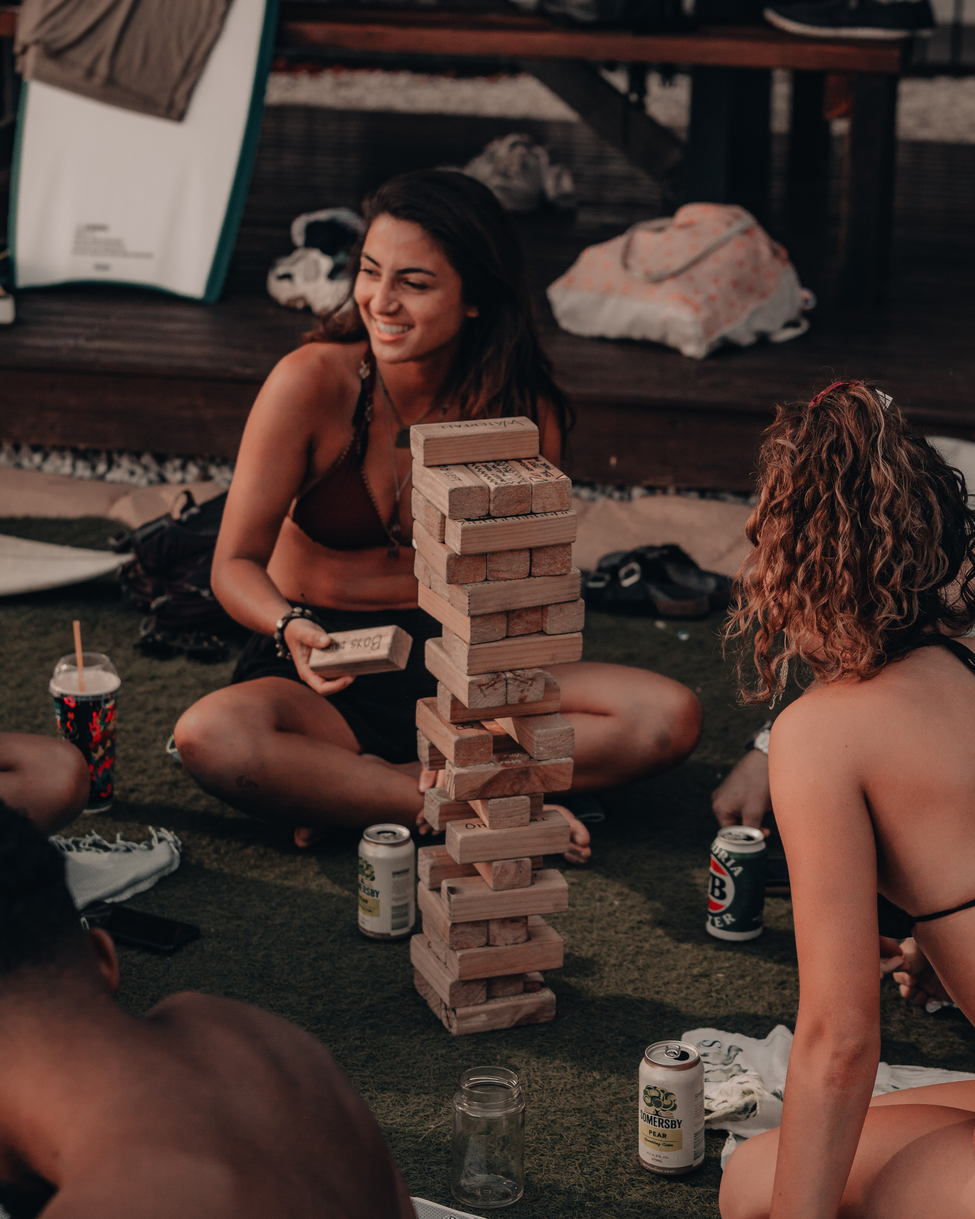
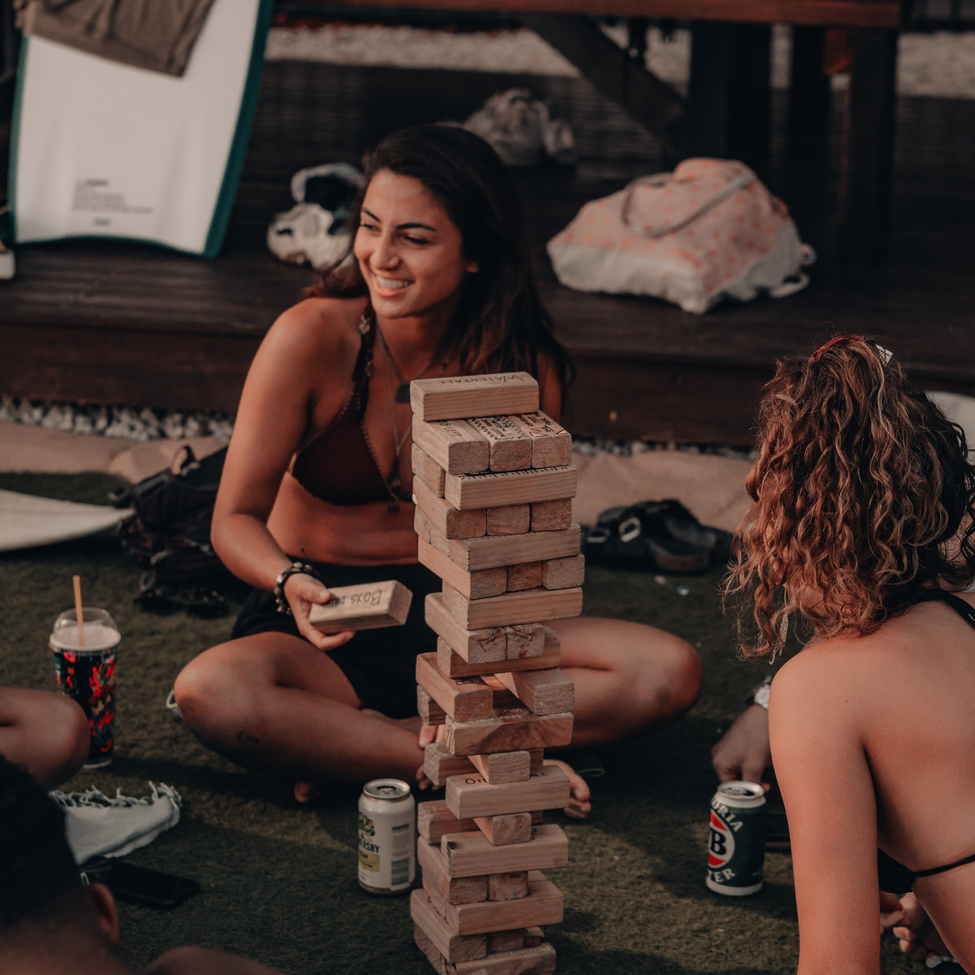
adding assets

diff --git a/src/Components/Forms/LoginForm.jsx b/src/Components/Forms/LoginForm.jsx
@@ -1,39 +1,14 @@
-import * as React from 'react';
-import { useState, useEffect } from 'react';
+import React from 'react';
 import { Link } from 'react-router-dom';
-import { getAllEvents } from '../../API/EventAPI';
-import { getAllOrganisations } from '../../API/OrganisationAPI';
-import AddVenue from '../AddVenue/AddVenue';
+
 
 const LoginForm = () => {
 
-  const [organisations, setOrganisations] = useState([]);
-  const [events, setEvents] = useState([]);
-
-  useEffect( () => {
-    getAllOrganisations(setOrganisations);
-    console.log(organisations);
-
-    getAllEvents(setEvents);
-    console.log(events);
-  }, []);
-
-  const [toggleAddVenue, setToggleAddVenue] = useState("hidden")
-
-  const handleCreateVenueToggle = (event) => {
-    event.preventDefault()
-
-    if (toggleAddVenue === "hidden") {
-      return setToggleAddVenue("flex");
-    }
-
-    return setToggleAddVenue("hidden");
-  }
-
   return (
-    <>
-      <section className="flex flex-col items-stretch lg:w-1/3 lg:mx-auto lg:justify-center">
+    <section className="flex flex-col justify-center w-[500px] mx-auto bg-">
+
       <div className='flex flex-col items-center'>
+
         <h1 className='text-5xl my-2'>Five Star</h1>
 
         <p className='text-2xl'>Sign in to your account</p>
@@ -55,20 +30,20 @@ const LoginForm = () => {
           <button className='py-2 mt-6 bg-green-500 rounded-lg text-xl' type='submit' value={"Sign In"}>Sign In</button>
         </form>
 
-        <p className='mt-1'>Don't have an account? <span className='text-blue-900'><Link to={"/register"}>Register</Link></span></p>
+        <p className='mt-2'>Don't have an account? <span className='text-blue-900'><Link to={"/register"} className='text-secondary'>Register</Link></span></p>
       </div>
 
 
       <div className='flex flex-col mt-10 self-stretch mx-auto w-2/3'>
 
         <div className='flex items-center'>
-          <span className='flex-grow border-t border-black'></span>
+          <span className='flex-grow border-t border-white'></span>
           <span className='flex-grow-0 mx-3'>Or sign in with</span>
-          <span className='flex-grow border-t border-black'></span>
+          <span className='flex-grow border-t border-white'></span>
         </div>
         
 
-        <div className='flex flex-row justify-between py-4 pb-6 border-b border-black'>
+        <div className='flex flex-row justify-between py-4 pb-6 border-b border-white'>
           <button className='bg-blue-500 p-2 rounded-lg w-5/12'>Facebook</button>
           <button className='bg-red-500 p-2 rounded-lg w-5/12'>Google</button>
         </div>
@@ -76,14 +51,10 @@ const LoginForm = () => {
       </div>
 
       <div className="mt-10">
-        <h3 className="text-center text-cBlue500 underline" onClick={handleCreateVenueToggle}>Want to register your venue to our app?</h3>
+        <h3 className="text-center text-cBlue500 underline">Want to register your venue to our app?</h3>
       </div>
 
-      <div className={`${toggleAddVenue} w-full h-full fixed bg-cBlue300 z-10`}>
-          <AddVenue setToggleAddVenue={setToggleAddVenue} />
-        </div>
-      </section>
-    </>
+    </section>
   )
 }
 

diff --git a/src/Routes/Login.jsx b/src/Routes/Login.jsx
@@ -1,19 +1,20 @@
 import * as React from 'react';
 import LoginForm from "../Components/Forms/LoginForm";
-import LoginFriendsPhoto from "../Assets/login-friends-photo.jpg";
-import LoginFriendsDesktop from "../Assets/login-friends-desktop.jpg";
+import LoginFriendsDesktop from '../Assets/login-friends-photo_square.jpg';
 
 const Login = () => {
 
   return (
-    <section className='flex flex-col justify-start h-screen lg:flex-row'>
+    <section className='flex flex-row items-center h-screen'>
 
-      <div className='pb-6'>
-        <img className="lg:hidden" src={LoginFriendsPhoto} alt='Friends at party' />
-        <img className="hidden h-screen lg:flex" src={LoginFriendsDesktop} alt='Friends at party'/>
+      <div className='w-1/2'>
+        <img className="h-screen w-full rounded-2xl" src={LoginFriendsDesktop} alt='Friends at party'/>
       </div>
 
-      <LoginForm />
+      <div className='w-1/2'>
+        <LoginForm />
+      </div>
+
     </section>
   )
 }

diff --git a/src/Routes/Register.jsx b/src/Routes/Register.jsx
@@ -1,6 +1,4 @@
-import LoginFriendsPhoto from "../Assets/login-friends-photo.jpg";
-import LoginFriendsDesktop from "../Assets/login-friends-desktop2.jpg";
-import RegisterForm from "../Components/Forms/RegisterForm";
+import RegisterForm from '../Components/Forms/RegisterForm';
 
 const Register = () => {
 
@@ -8,8 +6,7 @@ const Register = () => {
     <section className='flex flex-col justify-start h-screen lg:flex-row'>
 
         <div className='pb-6'>
-            <img className="lg:hidden" src={LoginFriendsPhoto} alt='Friends at party' />
-            <img className="hidden h-screen lg:flex" src={LoginFriendsDesktop} alt='Friends at party'/>
+            {/* <img className="hidden h-screen lg:flex" src={} alt='Friends at party'/> */}
         </div>
 
         <RegisterForm />
